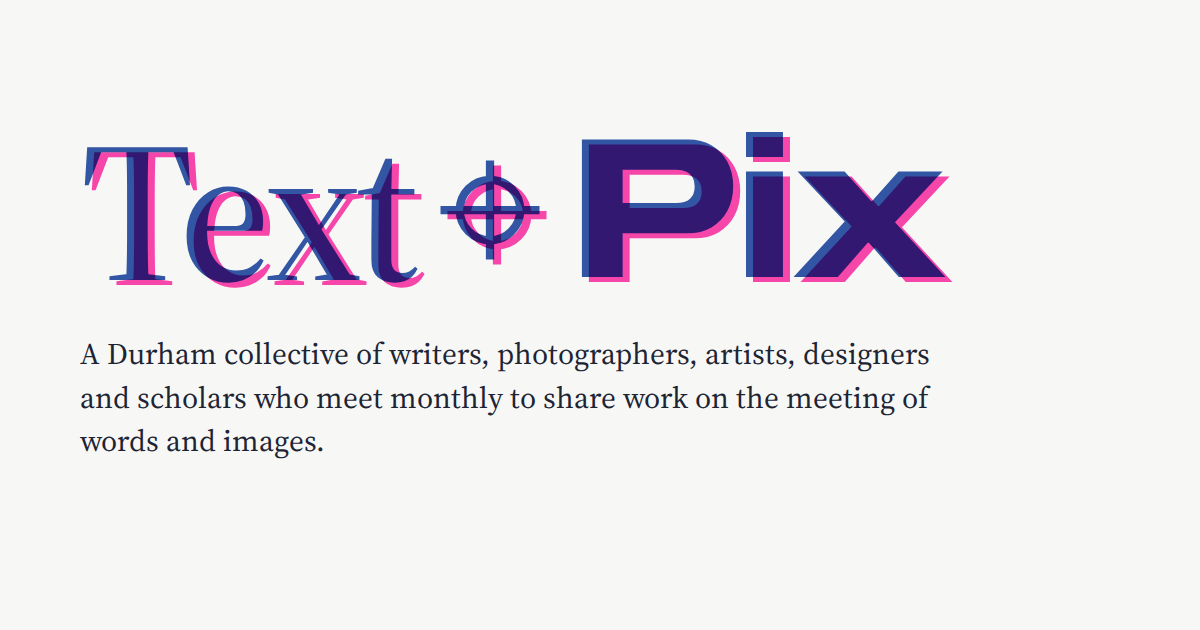
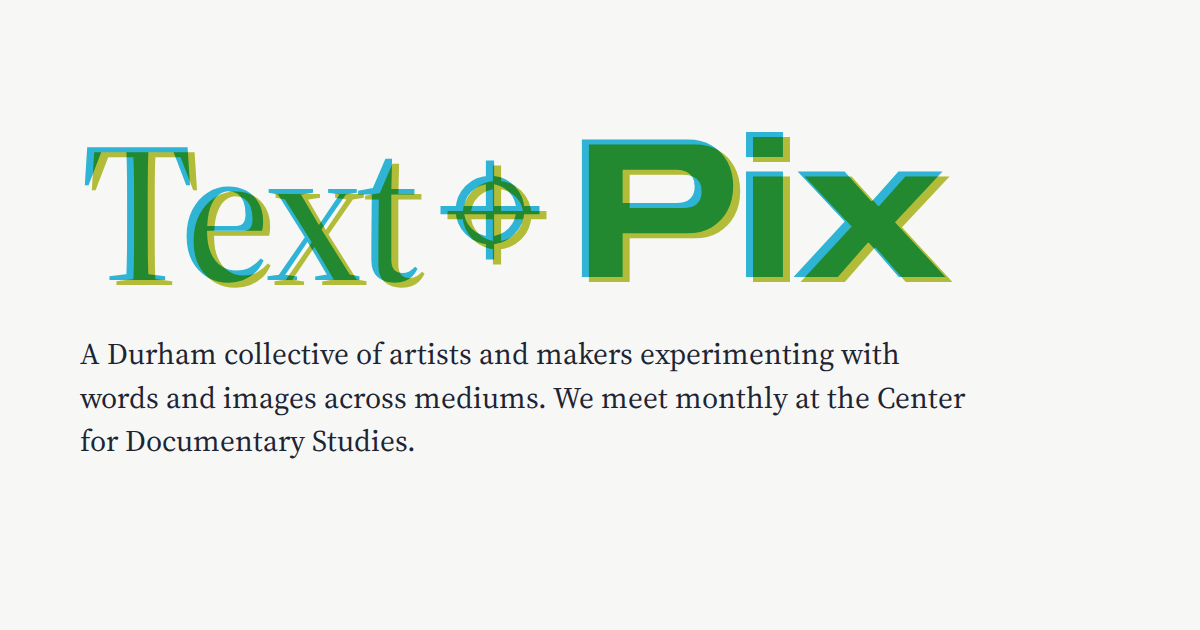
Zine inks, Zine #1 listing, documentary paragraph
Palette moves to Riso Aqua and Light Lime (with a dark aqua for text),
Zine #1 added to Publications with cover and colophon details, and the
About page gains a paragraph on the work's documentary bent.

Claude-Session: https://claude.ai/code/session_01TgvKXB1frhsYU7VnNqzR25

Changed region(s): [[0.0617, 0.2111, 0.8017, 0.4524], [0.0617, 0.5429, 0.8017, 0.7238]]

diff --git a/src/assets/style.css b/src/assets/style.css
@@ -1,13 +1,16 @@
-/* Text + Pix — two Riso inks on paper.
+/* Text + Pix — the zine's Riso inks (Aqua and Light Lime) on paper.
+   Aqua and lime are display inks only: too light for small text.
+   Text accents, links and buttons use --deep, a dark aqua.
    Change the colors here and the whole site follows. */
 :root {
   --paper: #f7f8f6;
   --ink: #1d2433;
   --muted: #59606e;
   --rule: #d3d7dd;
-  --blue: #3255a4;      /* Riso Federal Blue */
-  --pink: #ff48b0;      /* Riso Fluorescent Pink */
-  --link: #3255a4;
+  --aqua: #2fb4d6;      /* Riso Aqua, as printed */
+  --lime: #b9c23a;      /* Riso Light Lime, as printed */
+  --deep: #006070;      /* dark aqua for text, links, buttons */
+  --link: var(--deep);
   --field: #ffffff;
 
   --serif: "Source Serif 4", Georgia, serif;
@@ -30,15 +33,16 @@
     --ink: #e7e9ef;
     --muted: #a3a9b6;
     --rule: #333847;
-    --blue: #7f9be0;
-    --pink: #ff6fc2;
-    --link: #a9bdf0;
+    --aqua: #49c6e3;
+    --lime: #d4dc4c;
+    --deep: #7fd3e6;
+    --link: #7fd3e6;
     --field: #1d212c;
   }
 }
 :root[data-theme="dark"] {
   --paper: #151821; --ink: #e7e9ef; --muted: #a3a9b6; --rule: #333847;
-  --blue: #7f9be0; --pink: #ff6fc2; --link: #a9bdf0; --field: #1d212c;
+  --aqua: #49c6e3; --lime: #d4dc4c; --deep: #7fd3e6; --link: #7fd3e6; --field: #1d212c;
 }
 
 *, *::before, *::after { box-sizing: border-box; }
@@ -53,7 +57,7 @@ body {
 img { max-width: 100%; height: auto; display: block; }
 a { color: var(--link); text-underline-offset: 0.18em; text-decoration-thickness: 1px; }
 a:hover { text-decoration-thickness: 2px; }
-:focus-visible { outline: 3px solid var(--pink); outline-offset: 3px; }
+:focus-visible { outline: 3px solid var(--deep); outline-offset: 3px; }
 
 .skip { position: absolute; left: -999px; }
 .skip:focus { left: var(--gutter); top: 0.5rem; background: var(--paper); padding: 0.5rem; z-index: 10; }
@@ -78,14 +82,14 @@ p { margin: 0 0 1em; }
   color: var(--ink); text-decoration: none;
 }
 .brand .brand-text { font-family: var(--serif); font-weight: 600; font-stretch: normal; }
-.brand .mark { width: 0.85em; height: 0.85em; color: var(--pink); }
+.brand .mark { width: 0.85em; height: 0.85em; color: var(--aqua); }
 .site-header ul { display: flex; flex-wrap: wrap; gap: 0.25rem 1.25rem; margin: 0; padding: 0; list-style: none; }
 .site-header nav a {
   font: 500 1rem/1.4 var(--sans); color: var(--ink); text-decoration: none;
   padding: 0.25rem 0; border-bottom: 2px solid transparent;
 }
-.site-header nav a:hover, .site-header nav a[aria-current="page"] { border-bottom-color: var(--blue); }
-.site-header nav .nav-join { color: var(--blue); }
+.site-header nav a:hover, .site-header nav a[aria-current="page"] { border-bottom-color: var(--aqua); }
+.site-header nav .nav-join { color: var(--deep); }
 
 main { padding: 0 var(--gutter) 4rem; }
 
@@ -99,13 +103,13 @@ main { padding: 0 var(--gutter) 4rem; }
 .plate .w-text { font-family: var(--serif); font-weight: 600; letter-spacing: -0.02em; }
 .plate .w-pix { font-family: var(--sans); font-weight: 800; font-stretch: 125%; letter-spacing: -0.02em; }
 .plate .mark { width: 0.55em; height: 0.55em; flex: none; margin: 0 0.04em; }
-.plate-blue { color: var(--blue); }
-.plate-pink { color: var(--pink); mix-blend-mode: multiply; transform: translate(0.035em, 0.025em); }
-@media (prefers-color-scheme: dark) { :root:not([data-theme="light"]) .plate-pink { mix-blend-mode: screen; } }
-:root[data-theme="dark"] .plate-pink { mix-blend-mode: screen; }
+.plate-a { color: var(--aqua); }
+.plate-b { color: var(--lime); mix-blend-mode: multiply; transform: translate(0.035em, 0.025em); }
+@media (prefers-color-scheme: dark) { :root:not([data-theme="light"]) .plate-b { mix-blend-mode: screen; } }
+:root[data-theme="dark"] .plate-b { mix-blend-mode: screen; }
 
 @media (prefers-reduced-motion: no-preference) {
-  .plate-pink { animation: register 1.4s cubic-bezier(.2,.7,.2,1) 0.2s both; }
+  .plate-b { animation: register 1.4s cubic-bezier(.2,.7,.2,1) 0.2s both; }
   @keyframes register { from { transform: translate(0.12em, -0.06em); opacity: 0; } to { transform: translate(0.035em, 0.025em); opacity: 1; } }
 }
 .lede { font-size: var(--step-1); line-height: 1.45; max-width: 32rem; }
@@ -130,7 +134,7 @@ main { padding: 0 var(--gutter) 4rem; }
   gap: 0 2rem; padding: 1.75rem 0; border-top: 1px solid var(--rule);
 }
 .event-date { margin: 0; font-family: var(--sans); line-height: 1; }
-.event-day { display: block; font-size: 4rem; font-weight: 800; font-stretch: 125%; color: var(--blue); letter-spacing: -0.03em; }
+.event-day { display: block; font-size: 4rem; font-weight: 800; font-stretch: 125%; color: var(--deep); letter-spacing: -0.03em; }
 .event-month { display: block; margin-top: 0.4rem; font-size: 1rem; font-weight: 500; }
 .event-body { max-width: var(--measure); }
 .event-body h3 { margin-bottom: 0.3em; }
@@ -155,8 +159,8 @@ main { padding: 0 var(--gutter) 4rem; }
 /* Buttons and forms --------------------------------------------------- */
 .button, .signup button {
   display: inline-block; font: 600 1rem/1 var(--sans);
-  padding: 0.8rem 1.2rem; border: 2px solid var(--blue); border-radius: 2px;
-  background: var(--blue); color: var(--paper); text-decoration: none; cursor: pointer;
+  padding: 0.8rem 1.2rem; border: 2px solid var(--deep); border-radius: 2px;
+  background: var(--deep); color: var(--paper); text-decoration: none; cursor: pointer;
 }
 .button:hover, .signup button:hover { background: var(--ink); border-color: var(--ink); }
 
@@ -172,7 +176,7 @@ main { padding: 0 var(--gutter) 4rem; }
 /* Footer -------------------------------------------------------------- */
 .site-footer {
   display: grid; grid-template-columns: minmax(0, 2fr) minmax(0, 1fr); gap: 2rem 4rem;
-  padding: 3rem var(--gutter); border-top: 3px solid var(--blue);
+  padding: 3rem var(--gutter); border-top: 4px solid var(--aqua);
 }
 .join h2 { font-size: var(--step-2); }
 .join > p { max-width: 30rem; }
